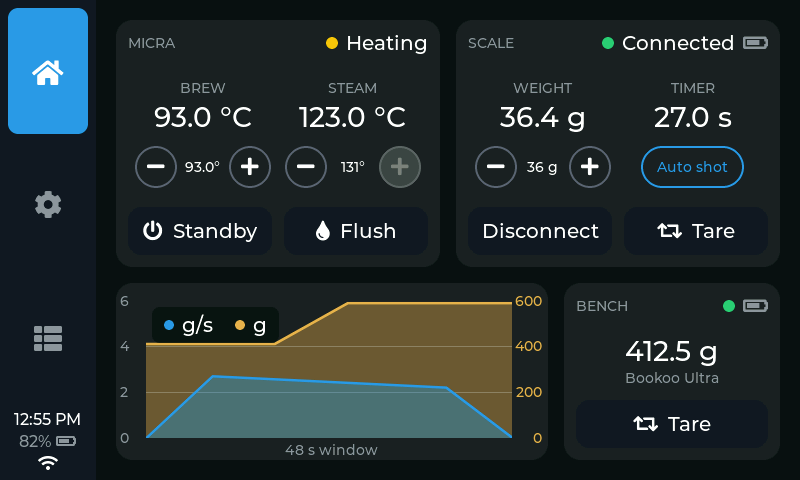
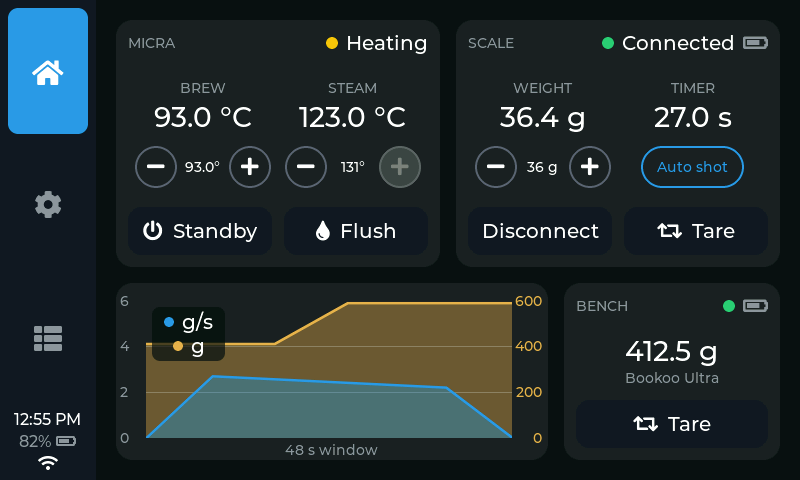
graph: the two-entry legend stacks beside the graph (owner); micra: time the request write and the answer read apart
- Beside the graph the legend's two entries sit one per row, so the dose
  chip after it keeps its full size and units ("18.2 g in  36.4 g out
  1:2.0" fits at 800 px without touching the bench axis). The terse /
  smaller chip variant is gone. Manual images re-annotated.
- X-8, 10:24:06: the first drop with the timed reads said it —
  "refresh read 'machineMode' FAILED after 30004 ms", then 0x216: the
  Micra's state poll went unanswered until NimBLE's host gave up and
  terminated the link. read_setting is two GATT procedures (a write with
  response, then a read); each is now timed separately so the next drop
  says whether the request or the answer stalled.

Changed region(s): [[0.1875, 0.6562, 0.3438, 0.75]]

diff --git a/src/ui/home_tab.cpp b/src/ui/home_tab.cpp
@@ -474,19 +474,44 @@ void populate_flow_graph(lv_obj_t* card, HomeWidgets& out) {
   lv_obj_set_size(btn, LV_SIZE_CONTENT, LV_SIZE_CONTENT);
   lv_obj_set_flex_flow(btn, LV_FLEX_FLOW_ROW);
   lv_obj_set_flex_align(btn, LV_FLEX_ALIGN_START, LV_FLEX_ALIGN_CENTER, LV_FLEX_ALIGN_CENTER);
-  out.flow_legend_dot = make_dot(btn, ui::dp(10), ui::theme::accent());
-  lv_obj_t* blab = lv_label_create(btn);
+  // Beside the graph the legend has two entries; stacked (one per row) it
+  // takes half the width, which the dose chip after it needs (owner).
+  lv_obj_t* entry1 = btn;
+  if (out.bench_overlay) {
+    lv_obj_set_flex_flow(btn, LV_FLEX_FLOW_COLUMN);
+    lv_obj_set_style_pad_row(btn, ui::dp(2), 0);
+    lv_obj_set_style_pad_ver(btn, ui::dp(4), 0);
+    auto entry = [&]() {
+      lv_obj_t* e = lv_obj_create(btn);
+      lv_obj_remove_style_all(e);
+      lv_obj_remove_flag(e, LV_OBJ_FLAG_SCROLLABLE);
+      lv_obj_add_flag(e, LV_OBJ_FLAG_EVENT_BUBBLE);  // the tap reaches the button
+      lv_obj_set_size(e, LV_SIZE_CONTENT, LV_SIZE_CONTENT);
+      lv_obj_set_flex_flow(e, LV_FLEX_FLOW_ROW);
+      lv_obj_set_flex_align(e, LV_FLEX_ALIGN_START, LV_FLEX_ALIGN_CENTER, LV_FLEX_ALIGN_CENTER);
+      lv_obj_set_style_pad_column(e, ui::dp(8), 0);
+      return e;
+    };
+    entry1 = entry();
+  }
+  out.flow_legend_dot = make_dot(entry1, ui::dp(10), ui::theme::accent());
+  lv_obj_t* blab = lv_label_create(entry1);
   lv_label_set_text(blab, flow_unit(out.flow_mode));
   lv_obj_set_style_text_color(blab, lv_color_hex(ui::theme::text()), 0);
   lv_obj_set_style_text_font(blab, ui::font_dp(20), 0);
   out.flow_unit_btn = btn;
   out.flow_unit_label = blab;
   if (out.bench_overlay) {
-    lv_obj_t* spacer = lv_obj_create(btn);
-    lv_obj_remove_style_all(spacer);
-    lv_obj_set_size(spacer, ui::dp(6), 1);
-    out.flow_legend_dot2 = make_dot(btn, ui::dp(10), ui::theme::bench());
-    out.flow_unit_label2 = lv_label_create(btn);
+    lv_obj_t* entry2 = lv_obj_create(btn);
+    lv_obj_remove_style_all(entry2);
+    lv_obj_remove_flag(entry2, LV_OBJ_FLAG_SCROLLABLE);
+    lv_obj_add_flag(entry2, LV_OBJ_FLAG_EVENT_BUBBLE);
+    lv_obj_set_size(entry2, LV_SIZE_CONTENT, LV_SIZE_CONTENT);
+    lv_obj_set_flex_flow(entry2, LV_FLEX_FLOW_ROW);
+    lv_obj_set_flex_align(entry2, LV_FLEX_ALIGN_START, LV_FLEX_ALIGN_CENTER, LV_FLEX_ALIGN_CENTER);
+    lv_obj_set_style_pad_column(entry2, ui::dp(8), 0);
+    out.flow_legend_dot2 = make_dot(entry2, ui::dp(10), ui::theme::bench());
+    out.flow_unit_label2 = lv_label_create(entry2);
     lv_label_set_text(out.flow_unit_label2, "g");
     lv_obj_set_style_text_color(out.flow_unit_label2, lv_color_hex(ui::theme::text()), 0);
     lv_obj_set_style_text_font(out.flow_unit_label2, ui::font_dp(20), 0);
@@ -516,16 +541,13 @@ void populate_flow_graph(lv_obj_t* card, HomeWidgets& out) {
       lv_obj_set_style_text_font(l, ui::font_dp(size), 0);
       return l;
     };
-    // Beside the graph the plot is narrower and the legend has two entries:
-    // the full "in / out / ratio" chip at the legend's size ran into the
-    // bench axis labels (owner, X-8), so it steps down a size there.
-    const int chip_font = out.bench_overlay ? 16 : 20;
+    const int chip_font = 20;  // the legend stacks beside the graph, so the chip keeps its size
     out.dose_in_label = label(ui::theme::text(), chip_font);
     out.dose_out_label = label(ui::theme::muted(), chip_font);
     lv_obj_set_style_pad_left(out.dose_out_label, ui::dp(6), 0);
     out.dose_ratio_label = label(ui::theme::bench(), chip_font);
     lv_obj_set_style_pad_left(out.dose_ratio_label, ui::dp(6), 0);
-    out.dose_x_label = label(ui::theme::muted(), out.bench_overlay ? 12 : 14);
+    out.dose_x_label = label(ui::theme::muted(), 14);
     lv_label_set_text(out.dose_x_label, LV_SYMBOL_CLOSE);
     lv_obj_add_flag(chip, LV_OBJ_FLAG_HIDDEN);
     out.dose_chip = chip;
@@ -1199,21 +1221,17 @@ void set_dose_chip(HomeWidgets& w, int state, float in_g, float out_g) {
     w.dose_chip_state = 0;
     return;
   }
-  // Beside the graph (the narrow plot, two-entry legend) the chip drops the
-  // unit on in/out: "18.2 in  36.4 out  1:2.0" — it ran into the bench axis
-  // labels at 800 px otherwise.
-  const bool terse = w.bench_overlay;
   char b[24];
-  std::snprintf(b, sizeof(b), terse ? "%.1f in" : "%.1f g in", static_cast<double>(in_g));
+  std::snprintf(b, sizeof(b), "%.1f g in", static_cast<double>(in_g));
   ui::set_text(w.dose_in_label, b);
   if (state == 1) {
     ui::set_text(w.dose_out_label, "");
     ui::set_text(w.dose_ratio_label, "");
   } else if (state == 2) {
-    ui::set_text(w.dose_out_label, terse ? "--.- out" : "--.- g out");
+    ui::set_text(w.dose_out_label, "--.- g out");
     ui::set_text(w.dose_ratio_label, "");
   } else {
-    std::snprintf(b, sizeof(b), terse ? "%.1f out" : "%.1f g out", static_cast<double>(out_g));
+    std::snprintf(b, sizeof(b), "%.1f g out", static_cast<double>(out_g));
     ui::set_text(w.dose_out_label, b);
     const float r = core::brew_ratio(out_g, in_g);
     if (r > 0.0f) std::snprintf(b, sizeof(b), "1:%.1f", static_cast<double>(r));

diff --git a/src/core/micra_link.cpp b/src/core/micra_link.cpp
@@ -47,9 +47,24 @@ bool write_with_nul(core::ble::ICentral& ble, const char* uuid,
 namespace core {
 
 bool MicraLink::read_setting(const char* name, std::string& out) {
-  if (!write_with_nul(ble_, kReadUuid, name)) return false;
+  // Two GATT procedures: the request (a write with response) and the answer
+  // (a read). Each is timed so a stall names which one the machine — or the
+  // hosted transport between the C6 and the P4 — never answered.
+  const uint32_t t0 = now_ms();
+  const bool wrote = write_with_nul(ble_, kReadUuid, name);
+  const uint32_t t_write = now_ms() - t0;
+  if (!wrote || t_write > 2000)
+    logf("MicraLink: request write '%s' %s after %lu ms\n", name, wrote ? "slow" : "FAILED",
+         static_cast<unsigned long>(t_write));
+  if (!wrote) return false;
   sleep_ms(150);  // let the machine replace the characteristic value with its answer
-  if (!ble_.read(kReadUuid, out)) return false;
+  const uint32_t t1 = now_ms();
+  const bool read = ble_.read(kReadUuid, out);
+  const uint32_t t_read = now_ms() - t1;
+  if (!read || t_read > 2000)
+    logf("MicraLink: answer read '%s' %s after %lu ms\n", name, read ? "slow" : "FAILED",
+         static_cast<unsigned long>(t_read));
+  if (!read) return false;
   return !out.empty();
 }
 
